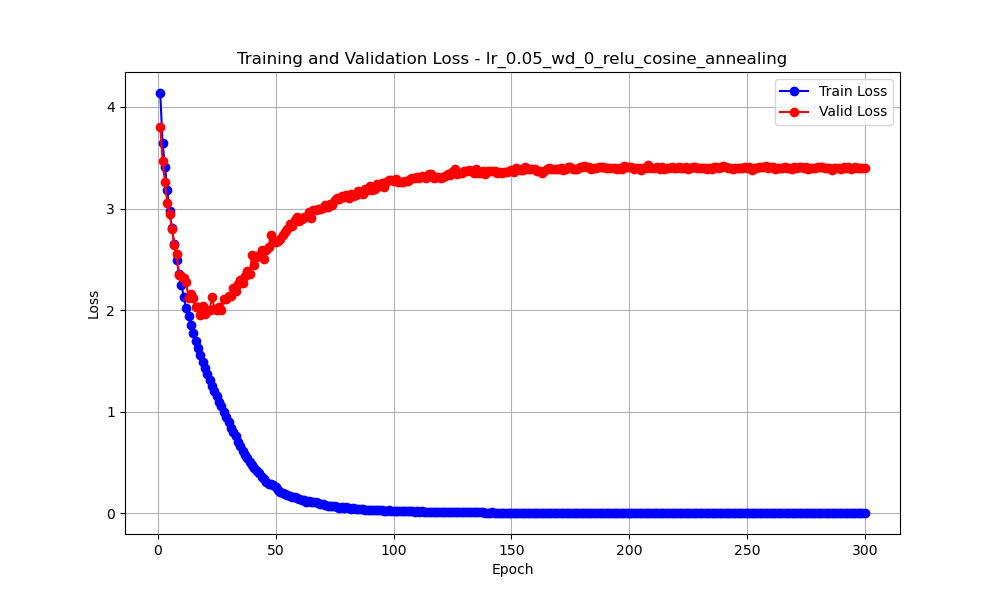
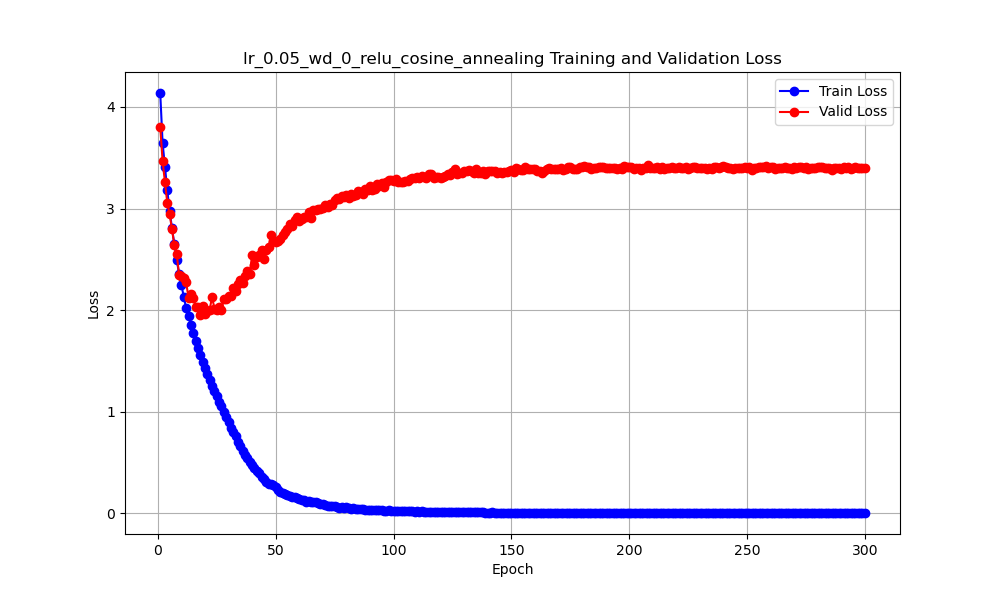
adjust draw.py

Changed region(s): [[0.217, 0.09, 0.806, 0.12]]

diff --git a/draw.py b/draw.py
@@ -1,67 +1,86 @@
 import os
+import shutil
 import pandas as pd
 import matplotlib.pyplot as plt
 
 # Specify the relative paths from the script's location
 source_directory = 'output'
+graphs_directory = 'graphs'
 
 # Ensure the current directory is the project root (where the script is located)
 project_root = os.path.dirname(os.path.abspath(__file__))  # Gets the directory where the script is located
 source_path = os.path.join(project_root, source_directory)
+graphs_path = os.path.join(project_root, graphs_directory)
+
+# Create the graphs directory if it doesn't exist or clear it if it does
+if not os.path.exists(graphs_path):
+    os.makedirs(graphs_path, exist_ok=True)
+else:
+    # Remove all files in the graphs directory before generating new ones
+    for filename in os.listdir(graphs_path):
+        file_path = os.path.join(graphs_path, filename)
+        try:
+            if os.path.isfile(file_path) or os.path.islink(file_path):
+                os.unlink(file_path)  # Remove the file
+            elif os.path.isdir(file_path):
+                shutil.rmtree(file_path)  # Remove the directory
+        except Exception as e:
+            print(f'Failed to delete {file_path}. Reason: {e}')
 
 # Iterate through each subdirectory in the 'output' folder
 for subdir, dirs, files in os.walk(source_path):
     folder_name = os.path.basename(subdir)  # Extract the folder name
     for file in files:
-        # Check if the file is a CSV file
         if file.endswith('.csv'):
             # Construct the full path to the file
             filepath = os.path.join(subdir, file)
             # Load the CSV data
             data = pd.read_csv(filepath)
 
-            # Create the combined graph with both metrics in two separate plots
-            fig, (ax1, ax2) = plt.subplots(nrows=2, ncols=1, figsize=(10, 12))
-            ax1.plot(data['Epoch'], data['Train Loss'], label='Train Loss', marker='o', color='blue')
-            ax1.plot(data['Epoch'], data['Valid Loss'], label='Valid Loss', marker='o', color='red')
-            ax1.set_xlabel('Epoch')
-            ax1.set_ylabel('Loss')
-            ax1.set_title(f'{folder_name} Training and Validation Loss')
-            ax1.legend(loc='upper right')
-            ax1.grid(True)
-
-            ax2.plot(data['Epoch'], data['Train Accuracy'], label='Train Accuracy', marker='s', linestyle='--',
-                     color='blue')
-            ax2.plot(data['Epoch'], data['Valid Accuracy'], label='Valid Accuracy', marker='s', linestyle='--',
-                     color='red')
-            ax2.set_xlabel('Epoch')
-            ax2.set_ylabel('Accuracy (%)')
-            ax2.set_title(f'{folder_name} Training and Validation Accuracy')
-            ax2.legend(loc='lower right')
-            ax2.grid(True)
-            combined_filename = os.path.join(subdir, f'{folder_name}_graph.png')
-            plt.tight_layout()
-            plt.savefig(combined_filename)
+            # Create and save the Loss graph
+            plt.figure(figsize=(10, 6))
+            plt.plot(data['Epoch'], data['Train Loss'], label='Train Loss', color='blue', marker='o')
+            plt.plot(data['Epoch'], data['Valid Loss'], label='Valid Loss', color='red', marker='o')
+            plt.xlabel('Epoch')
+            plt.ylabel('Loss')
+            plt.title(f'{folder_name} Training and Validation Loss')
+            plt.legend(loc='upper right')
+            plt.grid(True)
+            loss_filename = os.path.join(graphs_path, f'{folder_name}_loss_graph.png')
+            plt.savefig(loss_filename)
             plt.close()
 
-            # Create the single combined graph for both loss and accuracy
-            fig, ax = plt.subplots(figsize=(10, 6))
-            ax.plot(data['Epoch'], data['Train Loss'], label='Train Loss', color='blue', marker='o')
-            ax.plot(data['Epoch'], data['Valid Loss'], label='Valid Loss', color='red', marker='o')
-            ax.set_xlabel('Epoch')
-            ax.set_ylabel('Loss', color='blue')
-            ax.tick_params(axis='y', labelcolor='blue')
+            # Create and save the Accuracy graph
+            plt.figure(figsize=(10, 6))
+            plt.plot(data['Epoch'], data['Train Accuracy'], label='Train Accuracy', color='green', linestyle='--',
+                     marker='s')
+            plt.plot(data['Epoch'], data['Valid Accuracy'], label='Valid Accuracy', color='purple', linestyle='--',
+                     marker='s')
+            plt.xlabel('Epoch')
+            plt.ylabel('Accuracy (%)')
+            plt.title(f'{folder_name} Training and Validation Accuracy')
+            plt.legend(loc='lower right')
+            plt.grid(True)
+            accuracy_filename = os.path.join(graphs_path, f'{folder_name}_accuracy_graph.png')
+            plt.savefig(accuracy_filename)
+            plt.close()
 
-            ax2 = ax.twinx()
+            # Create and save the combined Loss and Accuracy graph
+            fig, ax1 = plt.subplots(figsize=(10, 6))
+            ax1.plot(data['Epoch'], data['Train Loss'], label='Train Loss', color='blue', marker='o')
+            ax1.plot(data['Epoch'], data['Valid Loss'], label='Valid Loss', color='red', marker='o')
+            ax1.set_xlabel('Epoch')
+            ax1.set_ylabel('Loss', color='blue')
+            ax1.tick_params(axis='y', labelcolor='blue')
+            ax2 = ax1.twinx()
             ax2.plot(data['Epoch'], data['Train Accuracy'], label='Train Accuracy', color='green', linestyle='--',
                      marker='s')
             ax2.plot(data['Epoch'], data['Valid Accuracy'], label='Valid Accuracy', color='purple', linestyle='--',
                      marker='s')
             ax2.set_ylabel('Accuracy (%)', color='green')
             ax2.tick_params(axis='y', labelcolor='green')
-
             plt.title(f'{folder_name} Combined Loss and Accuracy')
-            fig.legend(loc='upper right', bbox_to_anchor=(1, 1), bbox_transform=ax.transAxes)
-            combined_loss_accuracy_filename = os.path.join(subdir, f'{folder_name}_combined_loss_accuracy.png')
-            plt.savefig(combined_loss_accuracy_filename)
+            fig.legend(loc='upper right', bbox_to_anchor=(1, 1), bbox_transform=ax1.transAxes)
+            combined_filename = os.path.join(graphs_path, f'{folder_name}_combined_loss_accuracy_graph.png')
+            plt.savefig(combined_filename)
             plt.close()
